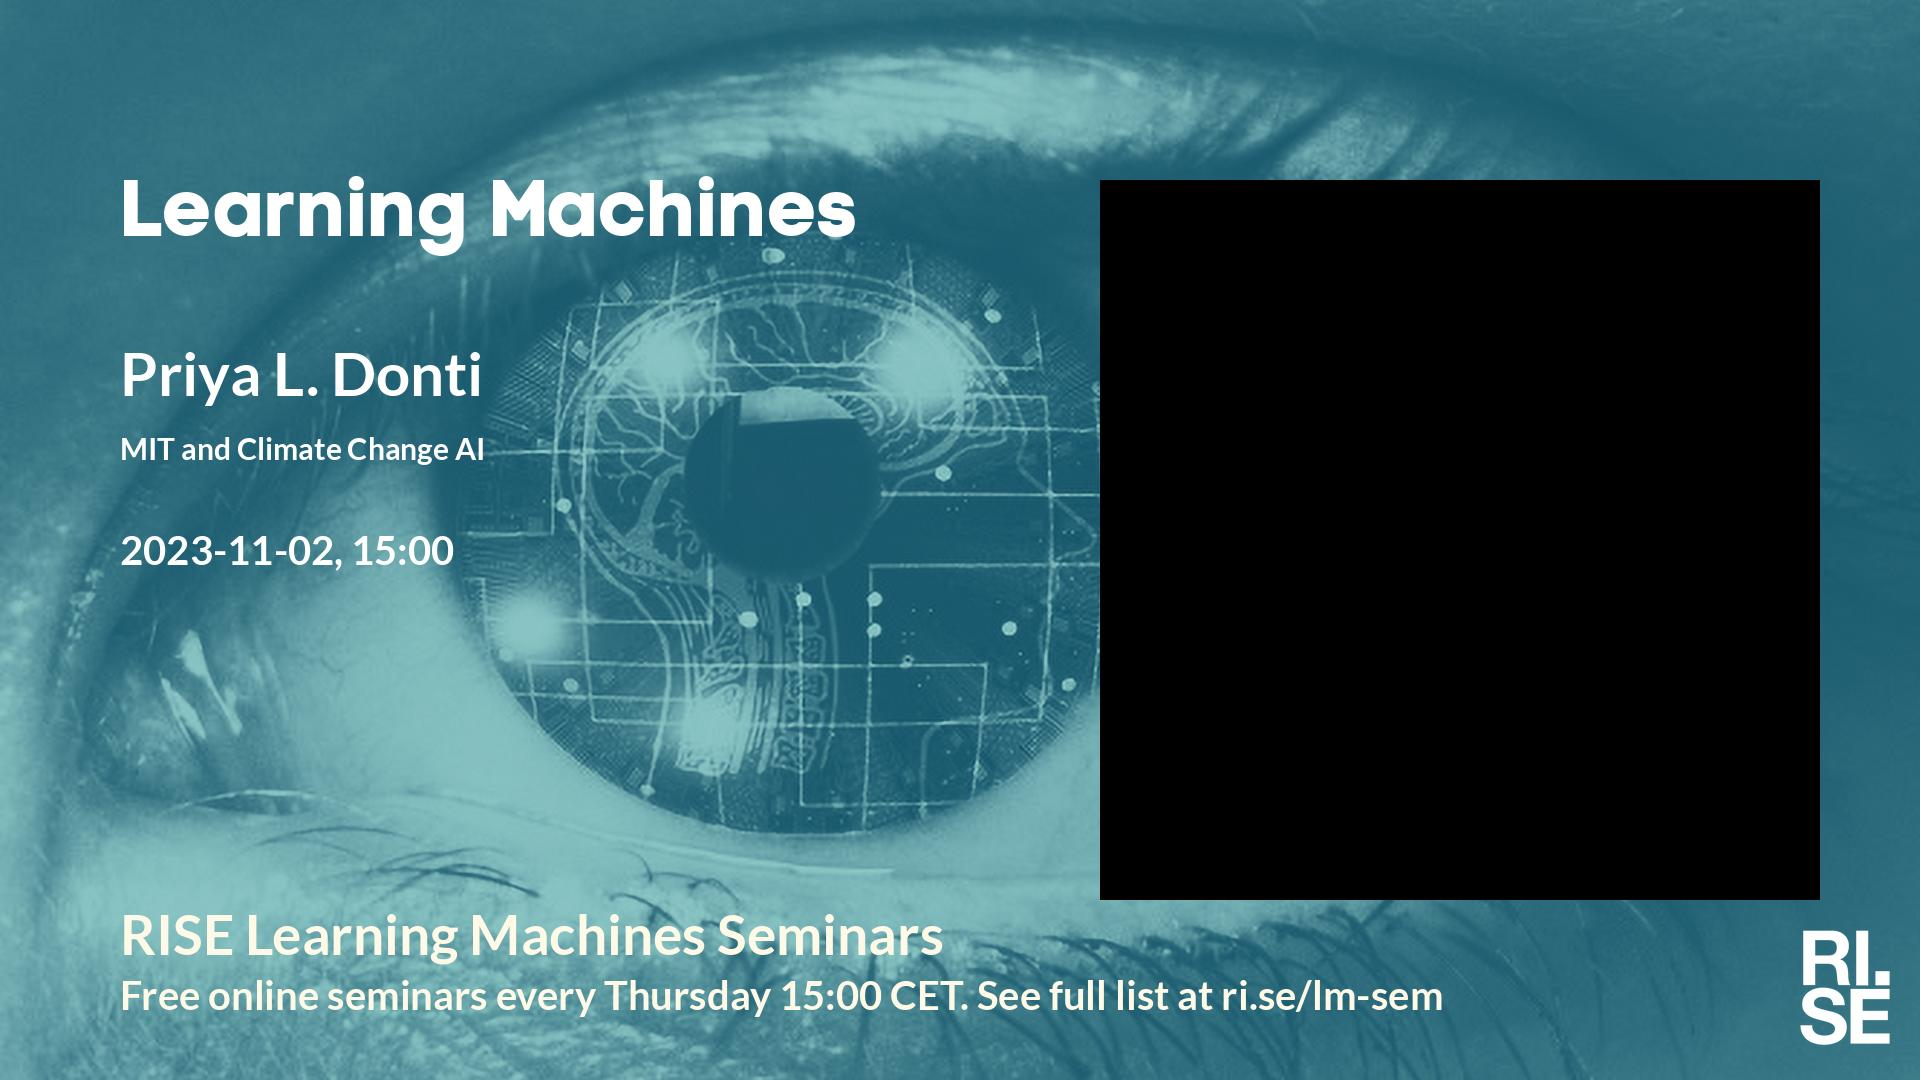
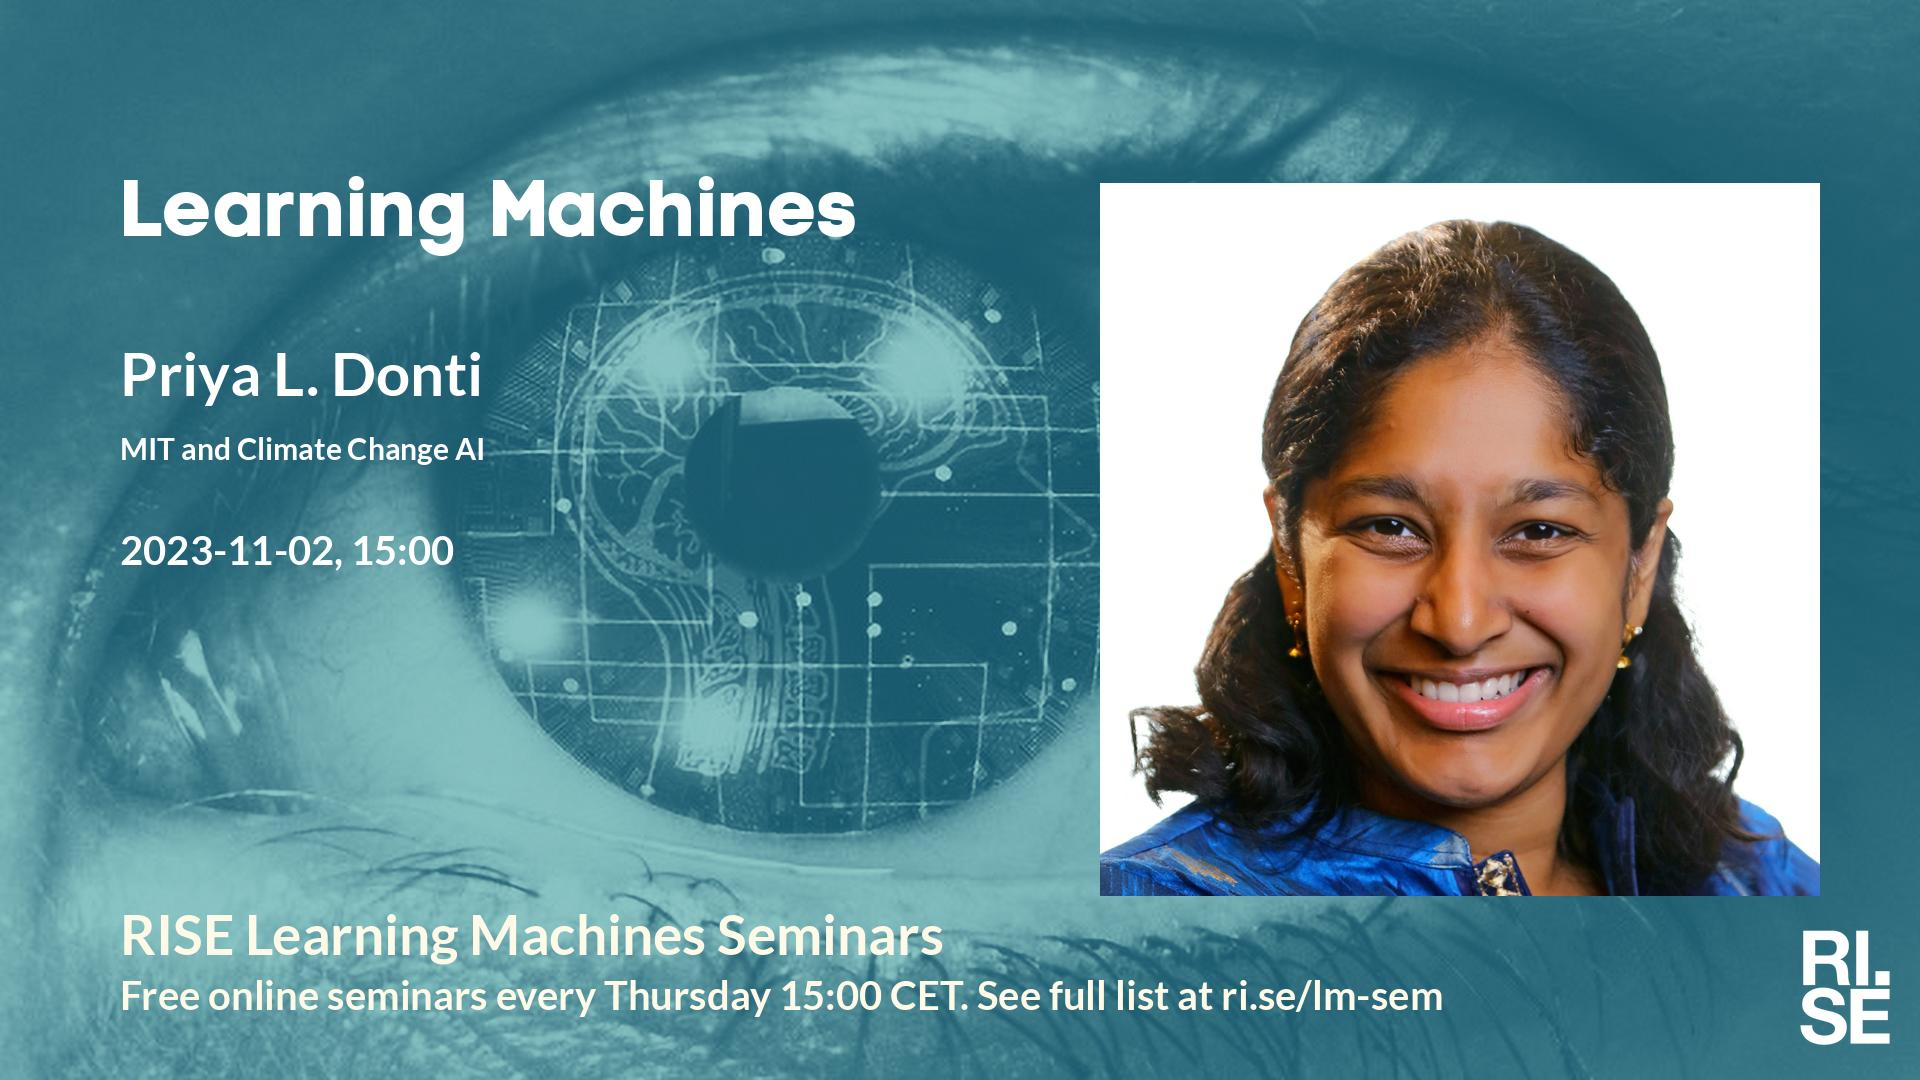
Updated plan on web site.

Changed region(s): [[0.5625, 0.1528, 0.9688, 0.8556]]

diff --git a/lm/index.md b/lm/index.md
@@ -18,7 +18,7 @@ table {border-collapse: collapse;}
 | <span style="color:grey"> 2023-10-12 </span> | <span style="color:grey"> Giulio B. ? </span> | <span style="color:grey">  </span> | <span style="color:grey">  </span> | <span style="color:grey">  </span> | <span style="color:grey">  </span> | <span style="color:grey"> ?~~TABP~~ </span> |
 |  2023-10-19  |  [Valentin De Bortoli, ENS Ulm, Paris](2023-10-19.md)  |  [photo](photo-valentin-de-bortoli.jpg)  |  [social media ](social-media-valentin-de-bortoli.jpg)  |  [meeting backdrop ](meeting-backdrop-valentin-de-bortoli.jpg)  |  [youtube thumbnail ](youtube-thumbnail-valentin-de-bortoli.jpg)  |  S~~TAB~~P  |
 | <span style="color:purple"> 2023-10-26 </span> | <span style="color:purple"> *Up for grabs!!!* </span> | <span style="color:purple">  </span> | <span style="color:purple">  </span> | <span style="color:purple">  </span> | <span style="color:purple">  </span> | <span style="color:purple"> ~~STABP~~ </span> |
-|  2023-11-02  |  [Priya L. Donti, MIT and Climate Change AI](2023-11-02.md)  |    |  [social media ](social-media-priya-l.-donti.jpg)  |  [meeting backdrop ](meeting-backdrop-priya-l.-donti.jpg)  |  [youtube thumbnail ](youtube-thumbnail-priya-l.-donti.jpg)  |  S~~TABP~~  |
+|  2023-11-02  |  [Priya L. Donti, MIT and Climate Change AI](2023-11-02.md)  |  [photo](photo-priya-l.-donti.jpg)  |  [social media ](social-media-priya-l.-donti.jpg)  |  [meeting backdrop ](meeting-backdrop-priya-l.-donti.jpg)  |  [youtube thumbnail ](youtube-thumbnail-priya-l.-donti.jpg)  |  S~~TAB~~P  |
 |  2023-11-09  |  [Nataša Sladoje or Joakim Lindblad (TBD), Uppsala University](2023-11-09.md)  |    |  [social media ](social-media-natasa-sladoje-or-joakim-lindblad-(tbd).jpg)  |  [meeting backdrop ](meeting-backdrop-natasa-sladoje-or-joakim-lindblad-(tbd).jpg)  |  [youtube thumbnail ](youtube-thumbnail-natasa-sladoje-or-joakim-lindblad-(tbd).jpg)  |  S~~TABP~~  |
 |  2023-11-16  |  [Jonas Hellgren, RISE](2023-11-16.md)  |    |  [social media ](social-media-jonas-hellgren.jpg)  |  [meeting backdrop ](meeting-backdrop-jonas-hellgren.jpg)  |  [youtube thumbnail ](youtube-thumbnail-jonas-hellgren.jpg)  |  ST~~ABP~~  |
 | <span style="color:grey"> 2023-11-23 </span> | <span style="color:grey"> Zhirong Y. ? </span> | <span style="color:grey">  </span> | <span style="color:grey">  </span> | <span style="color:grey">  </span> | <span style="color:grey">  </span> | <span style="color:grey"> ?~~TABP~~ </span> |
